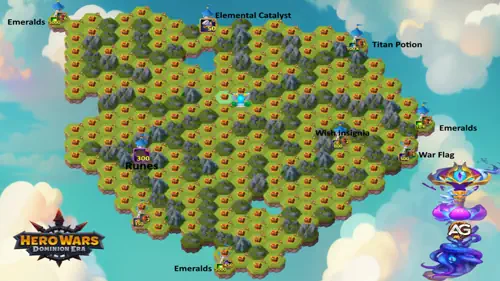
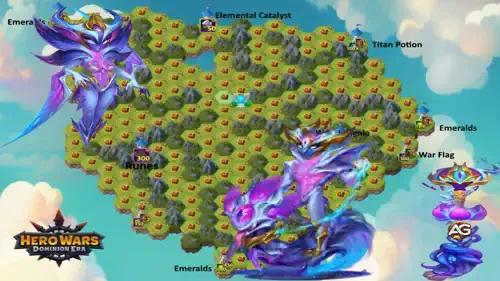
ilha

diff --git a/hero-wars-dominion-era/guide/mysterious-island-data3.js b/hero-wars-dominion-era/guide/mysterious-island-data3.js
@@ -1,0 +1,125 @@
+const mysteriousIslandData3 = {
+  en: {
+    title: "Mysterious Island Valdur and Echo, Map 3",
+    para1: "The Valdur and Echo Event map brings various rewards for players, including Valor Coin, Crown, Seal, and the Titan Valdur weapon artifact.",
+    para2: "This guide presents optimized routes to help F2P players efficiently collect these rewards, maximizing the use of available Explorer's Moves.",
+    figcaption: "Mysterious Island Valdur and Echo, Map 3, 2026, Hero Wars: Dominion Era.",
+    para3: "This Valdur and Echo Map 3 is ideal for players who want to collect resources for the Valdur and Echo Event in Hero Wars Dominion Era.",
+    rewardsTitle: "Valdur and Echo - Mysterious Island Main Rewards - Alexandre Games Route",
+    tableCaption: "Table: Valdur and Echo - Mysterious Island Main Rewards - Alexandre Games Route",
+    rewards: [
+      { item: "50K Valor Coin", cost: "+11", image: "../../hero-wars-dominion-era/images/events/shared/valor-coin.webp" },
+      { item: "2000 Zorva's Reins", cost: "+15", image: "../../hero-wars-dominion-era/images/titan-artifacts/weapon-valdur-zorvals-reins.webp" },
+      { item: "2000 Calling Seal", cost: "+11", image: "../../hero-wars-dominion-era/images/titan-artifacts/calling-seal.webp" },
+      { item: "2000 Crown of Distortion", cost: "+11", image: "../../hero-wars-dominion-era/images/titan-artifacts/distorcion-crown.webp" },
+   { item: "1600 Valdur's Soul Stones", cost: "+13", image: "../../hero-wars-dominion-era/images/events/shared/titan-soul-stones.webp" },
+ 
+   
+{ item: "Total Season Chest", cost: "56", image: "../../hero-wars-dominion-era/images/events/shared/season-chest.webp" },
+{ item: "Total Chest of Patterns", cost: "12", image: "../../hero-wars-dominion-era/images/events/shared/chest-of-patterns.webp" },
+  { item: "", cost: "" },
+{ item: "Total Explorer's Move", cost: "61", image: "../../hero-wars-dominion-era/images/events/shared/explorers-move.webp" },
+
+    ]
+  },
+  pt: {
+    title: "Ilha Misteriosa Valdur e Echo, Mapa 3",
+    para1: "O mapa do evento Valdur e Echo traz várias recompensas para os jogadores, incluindo Moeda de Valor, Coroa, Selo e o artefato de arma do Titã Valdur.",
+    para2: "Este guia apresenta rotas otimizadas para ajudar jogadores F2P a coletar essas recompensas de forma eficiente, maximizando o uso dos Movimentos do Explorador disponíveis.",
+    figcaption: "Ilha Misteriosa Valdur e Echo, Mapa 3, 2026, Hero Wars: Dominion Era.",
+    para3: "Este Mapa 3 de Valdur e Echo é ideal para jogadores que querem coletar recursos para o evento Valdur e Echo em Hero Wars Dominion Era.",
+    rewardsTitle: "Valdur e Echo - Recompensas Principais da Ilha Misteriosa - Rota Alexandre Games",
+    tableCaption: "Tabela: Valdur e Echo - Recompensas Principais da Ilha Misteriosa - Rota Alexandre Games",
+    rewards: [
+      { item: "50K Moeda de Valor", cost: "+11", image: "../../hero-wars-dominion-era/images/events/shared/valor-coin.webp" },
+      { item: "2000 Rédeas de Zorval", cost: "+15", image: "../../hero-wars-dominion-era/images/titan-artifacts/weapon-valdur-zorvals-reins.webp" },
+      { item: "2000 Selo da Invocação", cost: "+11", image: "../../hero-wars-dominion-era/images/titan-artifacts/calling-seal.webp" },
+      { item: "2000 Coroa da Distorção", cost: "+11", image: "../../hero-wars-dominion-era/images/titan-artifacts/distorcion-crown.webp" },
+      { item: "1600 Pedras da Alma de Valdur", cost: "+13", image: "../../hero-wars-dominion-era/images/events/shared/titan-soul-stones.webp" },
+      { item: "Total Baú de Temporada", cost: "56", image: "../../hero-wars-dominion-era/images/events/shared/season-chest.webp" },
+      { item: "Total Baú de Padrões", cost: "12", image: "../../hero-wars-dominion-era/images/events/shared/chest-of-patterns.webp" },
+      { item: "", cost: "" },
+      { item: "Total Movimentos do Explorador", cost: "61", image: "../../hero-wars-dominion-era/images/events/shared/explorers-move.webp" }
+    ]
+  },
+  de: {
+    title: "Mysterious Island Valdur und Echo, Karte 3",
+    para1: "Die Eventkarte von Valdur und Echo bietet Spielern verschiedene Belohnungen, darunter Valor-Münzen, eine Krone, ein Siegel und Valdurs Titanen-Waffenartefakt.",
+    para2: "Dieser Leitfaden stellt optimierte Routen vor, um F2P-Spielern zu helfen, diese Belohnungen effizient zu sammeln und die verfügbaren Entdeckerzüge zu maximieren.",
+    figcaption: "Mysterious Island Valdur und Echo, Karte 3, 2026, Hero Wars: Dominion Era.",
+    para3: "Diese Karte 3 von Valdur und Echo ist ideal für Spieler, die Ressourcen für das Valdur-und-Echo-Event in Hero Wars Dominion Era sammeln möchten.",
+    rewardsTitle: "Valdur und Echo - Hauptbelohnungen der Mysterious Island - Alexandre Games Route",
+    tableCaption: "Tabelle: Valdur und Echo - Hauptbelohnungen der Mysterious Island - Alexandre Games Route",
+    rewards: [
+      { item: "50K Valor-Münzen", cost: "+11", image: "../../hero-wars-dominion-era/images/events/shared/valor-coin.webp" },
+      { item: "2000 Zorvals Zügel", cost: "+15", image: "../../hero-wars-dominion-era/images/titan-artifacts/weapon-valdur-zorvals-reins.webp" },
+      { item: "2000 Siegel der Berufung", cost: "+11", image: "../../hero-wars-dominion-era/images/titan-artifacts/calling-seal.webp" },
+      { item: "2000 Kronen der Verzerrung", cost: "+11", image: "../../hero-wars-dominion-era/images/titan-artifacts/distorcion-crown.webp" },
+      { item: "1600 Valdur-Seelensteine", cost: "+13", image: "../../hero-wars-dominion-era/images/events/shared/titan-soul-stones.webp" },
+      { item: "Saisontruhen gesamt", cost: "56", image: "../../hero-wars-dominion-era/images/events/shared/season-chest.webp" },
+      { item: "Mustertruhen gesamt", cost: "12", image: "../../hero-wars-dominion-era/images/events/shared/chest-of-patterns.webp" },
+      { item: "", cost: "" },
+      { item: "Entdeckerzüge gesamt", cost: "61", image: "../../hero-wars-dominion-era/images/events/shared/explorers-move.webp" }
+   ]
+  },
+  es: {
+    title: "Isla Misteriosa Valdur y Echo, Mapa 3",
+    para1: "El mapa del evento Valdur y Echo ofrece varias recompensas a los jugadores, incluyendo Moneda de Valor, Corona, Sello y el artefacto de arma del Titán Valdur.",
+    para2: "Esta guía presenta rutas optimizadas para ayudar a los jugadores F2P a recolectar estas recompensas de manera eficiente, maximizando el uso de los Movimientos del Explorador disponibles.",
+    figcaption: "Isla Misteriosa Valdur y Echo, Mapa 3, 2026, Hero Wars: Dominion Era.",
+    para3: "Este Mapa 3 de Valdur y Echo es ideal para los jugadores que desean recolectar recursos para el evento Valdur y Echo en Hero Wars Dominion Era.",
+    rewardsTitle: "Valdur y Echo - Recompensas Principales de la Isla Misteriosa - Ruta Alexandre Games",
+    tableCaption: "Tabla: Valdur y Echo - Recompensas Principales de la Isla Misteriosa - Ruta Alexandre Games",
+    rewards: [
+      { item: "50K Moneda de Valor", cost: "+11", image: "../../hero-wars-dominion-era/images/events/shared/valor-coin.webp" },
+      { item: "2000 Riendas de Zorval", cost: "+15", image: "../../hero-wars-dominion-era/images/titan-artifacts/weapon-valdur-zorvals-reins.webp" },
+      { item: "2000 Sello de la Llamada", cost: "+11", image: "../../hero-wars-dominion-era/images/titan-artifacts/calling-seal.webp" },
+      { item: "2000 Corona de Distorsión", cost: "+11", image: "../../hero-wars-dominion-era/images/titan-artifacts/distorcion-crown.webp" },
+      { item: "1600 Piedras de Alma de Valdur", cost: "+13", image: "../../hero-wars-dominion-era/images/events/shared/titan-soul-stones.webp" },
+      { item: "Total Cofre de Temporada", cost: "56", image: "../../hero-wars-dominion-era/images/events/shared/season-chest.webp" },
+      { item: "Total Cofre de Patrones", cost: "12", image: "../../hero-wars-dominion-era/images/events/shared/chest-of-patterns.webp" },
+      { item: "", cost: "" },
+      { item: "Total Movimientos del Explorador", cost: "61", image: "../../hero-wars-dominion-era/images/events/shared/explorers-move.webp" }
+    ]
+  },
+  fr: {
+    title: "Île Mystérieuse Valdur et Echo, Carte 3",
+    para1: "La carte de l'événement Valdur et Echo offre diverses récompenses aux joueurs, notamment des Pièces de Valeur, une Couronne, un Sceau et l'artefact d'arme du Titan Valdur.",
+    para2: "Ce guide présente des itinéraires optimisés pour aider les joueurs F2P à collecter efficacement ces récompenses, en maximisant l'utilisation des Mouvements de l'Explorateur disponibles.",
+    figcaption: "Île Mystérieuse Valdur et Echo, Carte 3, 2026, Hero Wars: Dominion Era.",
+    para3: "Cette Carte 3 de Valdur et Echo est idéale pour les joueurs souhaitant collecter des ressources pour l'événement Valdur et Echo dans Hero Wars Dominion Era.",
+    rewardsTitle: "Valdur et Echo - Récompenses Principales de l'Île Mystérieuse - Route Alexandre Games",
+    tableCaption: "Tableau : Valdur et Echo - Récompenses Principales de l'Île Mystérieuse - Route Alexandre Games",
+    rewards: [
+      { item: "50K Pièces de Valeur", cost: "+11", image: "../../hero-wars-dominion-era/images/events/shared/valor-coin.webp" },
+      { item: "2000 Rênes de Zorval", cost: "+15", image: "../../hero-wars-dominion-era/images/titan-artifacts/weapon-valdur-zorvals-reins.webp" },
+      { item: "2000 Sceau de l'Appel", cost: "+11", image: "../../hero-wars-dominion-era/images/titan-artifacts/calling-seal.webp" },
+      { item: "2000 Couronne de Distorsion", cost: "+11", image: "../../hero-wars-dominion-era/images/titan-artifacts/distorcion-crown.webp" },
+      { item: "1600 Pierres d'Âme de Valdur", cost: "+13", image: "../../hero-wars-dominion-era/images/events/shared/titan-soul-stones.webp" },
+      { item: "Total Coffre de Saison", cost: "56", image: "../../hero-wars-dominion-era/images/events/shared/season-chest.webp" },
+      { item: "Total Coffre de Motifs", cost: "12", image: "../../hero-wars-dominion-era/images/events/shared/chest-of-patterns.webp" },
+      { item: "", cost: "" },
+      { item: "Total des Mouvements de l'Explorateur", cost: "61", image: "../../hero-wars-dominion-era/images/events/shared/explorers-move.webp" }
+    ]
+  },
+  ja: {
+    title: "謎の島：ヴァルドゥル＆エコー、マップ3",
+    para1: "ヴァルドゥル＆エコーイベントのマップでは、ヴァラーコイン、王冠、印章、タイタン・ヴァルドゥルの武器アーティファクトなど、プレイヤー向けのさまざまな報酬を獲得できます。",
+    para2: "このガイドでは、F2Pプレイヤーが利用可能な探検家の移動を最大限に活用し、これらの報酬を効率よく集めるための最適なルートを紹介します。",
+    figcaption: "謎の島：ヴァルドゥル＆エコー、マップ3、2026年、ヒーローウォーズ：ドミニオン・エラ。",
+    para3: "このヴァルドゥル＆エコーのマップ3は、ヒーローウォーズ：ドミニオン・エラのヴァルドゥル＆エコーイベント用リソースを集めたいプレイヤーに最適です。",
+    rewardsTitle: "ヴァルドゥル＆エコー - 謎の島の主な報酬 - アレクサンドレ・ゲームズのルート",
+    tableCaption: "表：ヴァルドゥル＆エコー - 謎の島の主な報酬 - アレクサンドレ・ゲームズのルート",
+    rewards: [
+      { item: "50K ヴァラーコイン", cost: "+11", image: "../../hero-wars-dominion-era/images/events/shared/valor-coin.webp" },
+      { item: "2000 ゾルヴァルの手綱", cost: "+15", image: "../../hero-wars-dominion-era/images/titan-artifacts/weapon-valdur-zorvals-reins.webp" },
+      { item: "2000 コーリング・シール", cost: "+11", image: "../../hero-wars-dominion-era/images/titan-artifacts/calling-seal.webp" },
+      { item: "2000 ディストーションの王冠", cost: "+11", image: "../../hero-wars-dominion-era/images/titan-artifacts/distorcion-crown.webp" },
+      { item: "1600 ヴァルドゥルのソウルストーン", cost: "+13", image: "../../hero-wars-dominion-era/images/events/shared/titan-soul-stones.webp" },
+      { item: "シーズンチェスト合計", cost: "56", image: "../../hero-wars-dominion-era/images/events/shared/season-chest.webp" },
+      { item: "パターンチェスト合計", cost: "12", image: "../../hero-wars-dominion-era/images/events/shared/chest-of-patterns.webp" },
+      { item: "", cost: "" },
+      { item: "探検家の移動合計", cost: "61", image: "../../hero-wars-dominion-era/images/events/shared/explorers-move.webp" }
+    ]
+  }
+};

diff --git a/hero-wars-dominion-era/guide/mysterious-island-data2.js b/hero-wars-dominion-era/guide/mysterious-island-data2.js
@@ -1,0 +1,130 @@
+const mysteriousIslandData2 = {
+  en: {
+    title: "Mysterious Island Alecto, Map 2",
+    para1: "The Alecto and Echo Event map brings various rewards for players, including Primal Catalyst, Crown, Seal, and the Titan Alecto weapon artifact.",
+    para2: "This guide presents optimized routes to help F2P players efficiently collect these rewards, maximizing the use of available Explorer's Moves.",
+    figcaption: "Mysterious Island Alecto and Echo, Map 2, 2026, Hero Wars: Dominion Era.",
+    para3: "This Alecto and Echo Map 2 is ideal for players who want to collect resources for the Alecto and Echo Event in Hero Wars Dominion Era.",
+    rewardsTitle: "Alecto and Echo - Mysterious Island Main Rewards - Alexandre Games Route",
+    tableCaption: "Table: Alecto and Echo - Mysterious Island Main Rewards - Alexandre Games Route",
+    rewards: [
+{ item: "2000 Zorva's Wing", cost: "+16", image: "../../hero-wars-dominion-era/images/titan-artifacts/weapon-alecto-zorvals-wing.webp" },
+{ item: "70 Primal Catalyst", cost: "+5", image: "../../hero-wars-dominion-era/images/events/shared/primal-catalyst.webp" },
+{ item: "2000 Distorted Attack Seal", cost: "+18", image: "../../hero-wars-dominion-era/images/titan-artifacts/seal-of-distorcion.webp" },
+{ item: "2000 Crown of Distortion", cost: "+11", image: "../../hero-wars-dominion-era/images/titan-artifacts/distorcion-crown.webp" },
+{ item: "1600 Alecto's Soul Stones", cost: "+10", image: "../../hero-wars-dominion-era/images/events/shared/titan-soul-stones.webp" },
+
+
+{ item: "Total Season Chest", cost: "55", image: "../../hero-wars-dominion-era/images/events/shared/season-chest.webp" },
+{ item: "Total Chest of Patterns", cost: "8", image: "../../hero-wars-dominion-era/images/events/shared/chest-of-patterns.webp" },
+{ item: "", cost: "" },
+{ item: "Total Explorer's Move", cost: "59", image: "../../hero-wars-dominion-era/images/events/shared/explorers-move.webp" },
+
+    ]
+  },
+  pt: {
+    title: "Ilha Misteriosa Tidus e Gelo, Mapa 2",
+    para1: "O mapa do evento Tidus e Gelo traz várias recompensas para os jogadores, incluindo Moeda de Valor, Selo da Natureza e o artefato de arma do Titã Tidus (Maça de Siungur).",
+    para2: "Este guia apresenta rotas otimizadas para ajudar jogadores F2P a coletar essas recompensas de forma eficiente, maximizando o uso dos Movimentos do Explorador disponíveis.",
+    figcaption: "Ilha Misteriosa Tidus e Gelo, Mapa 2, 2026, Hero Wars: Dominion Era.",
+    para3: "Este Mapa 2 de Tidus e Gelo é ideal para jogadores que querem coletar recursos para o evento Tidus e Gelo em Hero Wars Dominion Era.",
+    rewardsTitle: "Tidus e Gelo - Recompensas Principais da Ilha Misteriosa - Rota Alexandre Games",
+    tableCaption: "Tabela: Tidus e Gelo - Recompensas Principais da Ilha Misteriosa - Rota Alexandre Games",
+    rewards: [
+      { item: "100 Catalisador Elemental", cost: "+10", image: "../../hero-wars-dominion-era/images/events/shared/elemental-catalyst.webp" },
+      { item: "100 Catalisador Primal", cost: "+17", image: "../../hero-wars-dominion-era/images/events/shared/primal-catalyst.webp" },
+      { item: "80K Moeda de Valor", cost: "+13", image: "../../hero-wars-dominion-era/images/events/shared/valor-coin.webp" },
+      { item: "2500 Maça de Siungur", cost: "+7", image: "../../hero-wars-dominion-era/images/titan-artifacts/weapon-siungurs-mace.webp" },
+      { item: "2500 Selo da Natureza", cost: "+9", image: "../../hero-wars-dominion-era/images/titan-artifacts/seal-of-nature.webp" },
+     
+      { item: "Total Movimentos do Explorador", cost: "57", image: "../../hero-wars-dominion-era/images/events/shared/explorers-move.webp" },
+      { item: "", cost: "" },
+      { item: "Total Baú de Temporada com esta Rota", cost: "52" },
+      { item: "Total Baú de Padrões com esta Rota", cost: "10" }
+    ]
+  },
+  de: {
+    title: "Mysterious Island Tidus und Gelo, Karte 2",
+    para1: "Die Tidus- und Gelo-Eventkarte bringt verschiedene Belohnungen für Spieler, einschließlich Valor-Münzen, Siegel der Natur und dem Titan-Tidus-Waffenartefakt (Siungurs Keule).",
+    para2: "Dieser Leitfaden stellt optimierte Routen vor, um F2P-Spielern zu helfen, diese Belohnungen effizient zu sammeln und die verfügbaren Entdeckerzüge zu maximieren.",
+    figcaption: "Mysterious Island Tidus und Gelo, Karte 2, 2026, Hero Wars: Dominion Era.",
+    para3: "Diese Tidus und Gelo Karte 2 ist ideal für Spieler, die Ressourcen für das Tidus und Gelo Event in Hero Wars Dominion Era sammeln möchten.",
+    rewardsTitle: "Tidus und Gelo - Hauptbelohnungen der Mysterious Island - Alexandre Games Route",
+    tableCaption: "Tabelle: Tidus und Gelo - Hauptbelohnungen der Mysterious Island - Alexandre Games Route",
+    rewards: [
+      { item: "100 Elementarkatalysator", cost: "+10", image: "../../hero-wars-dominion-era/images/events/shared/elemental-catalyst.webp" },
+      { item: "100 Urkatalysator", cost: "+17", image: "../../hero-wars-dominion-era/images/events/shared/primal-catalyst.webp" },
+      { item: "80K Valor-Münze", cost: "+13", image: "../../hero-wars-dominion-era/images/events/shared/valor-coin.webp" },
+      { item: "2500 Siungurs Keule", cost: "+7", image: "../../hero-wars-dominion-era/images/titan-artifacts/weapon-siungurs-mace.webp" },
+      { item: "2500 Siegel der Natur", cost: "+9", image: "../../hero-wars-dominion-era/images/titan-artifacts/seal-of-nature.webp" },
+     
+      { item: "Gesamt Entdeckerzüge", cost: "57", image: "../../hero-wars-dominion-era/images/events/shared/explorers-move.webp" },
+      { item: "", cost: "" },
+      { item: "Gesamt Saisontruhe mit dieser Route", cost: "52" },
+      { item: "Gesamt Mustertruhe mit dieser Route", cost: "10" }
+   ]
+  },
+  es: {
+    title: "Isla Misteriosa Tidus y Gelo, Mapa 2",
+    para1: "El mapa del evento Tidus y Gelo trae varias recompensas para los jugadores, incluyendo Moneda de Valor, Sello de la Naturaleza y el artefacto de arma Titán Tidus (Maza de Siungur).",
+    para2: "Esta guía presenta rutas optimizadas para ayudar a los jugadores F2P a recolectar estas recompensas de manera eficiente, maximizando el uso de los Movimientos del Explorador disponibles.",
+    figcaption: "Isla Misteriosa Tidus y Gelo, Mapa 2, 2026, Hero Wars: Dominion Era.",
+    para3: "Este Mapa 2 de Tidus y Gelo es ideal para jugadores que desean recolectar recursos para el evento Tidus y Gelo en Hero Wars Dominion Era.",
+    rewardsTitle: "Tidus y Gelo - Recompensas Principales de la Isla Misteriosa - Ruta Alexandre Games",
+    tableCaption: "Tabla: Tidus y Gelo - Recompensas Principales de la Isla Misteriosa - Ruta Alexandre Games",
+    rewards: [
+      { item: "100 Catalizador Elemental", cost: "+10", image: "../../hero-wars-dominion-era/images/events/shared/elemental-catalyst.webp" },
+      { item: "100 Catalizador Primal", cost: "+17", image: "../../hero-wars-dominion-era/images/events/shared/primal-catalyst.webp" },
+      { item: "80K Moneda de Valor", cost: "+13", image: "../../hero-wars-dominion-era/images/events/shared/valor-coin.webp" },
+      { item: "2500 Maza de Siungur", cost: "+7", image: "../../hero-wars-dominion-era/images/titan-artifacts/weapon-siungurs-mace.webp" },
+      { item: "2500 Sello de la Naturaleza", cost: "+9", image: "../../hero-wars-dominion-era/images/titan-artifacts/seal-of-nature.webp" },
+      
+      { item: "Total Movimientos del Explorador", cost: "57", image: "../../hero-wars-dominion-era/images/events/shared/explorers-move.webp" },
+      { item: "", cost: "" },
+      { item: "Total Cofre de Temporada con esta Ruta", cost: "52" },
+      { item: "Total Cofre de Patrones con esta Ruta", cost: "10" }
+    ]
+  },
+  fr: {
+    title: "Île Mystérieuse Tidus et Gelo, Carte 2",
+    para1: "La carte de l'événement Tidus et Gelo apporte diverses récompenses aux joueurs, y compris la Pièce de Valeur, le Sceau de la Nature et l'artefact d'arme Titan Tidus (Masse de Siungur).",
+    para2: "Ce guide présente des itinéraires optimisés pour aider les joueurs F2P à collecter efficacement ces récompenses, en maximisant l'utilisation des Mouvements de l'Explorateur disponibles.",
+    figcaption: "Île Mystérieuse Tidus et Gelo, Carte 2, 2026, Hero Wars: Dominion Era.",
+    para3: "Cette Carte 2 Tidus et Gelo est idéale pour les joueurs souhaitant collecter des ressources pour l'événement Tidus et Gelo dans Hero Wars Dominion Era.",
+    rewardsTitle: "Tidus et Gelo - Récompenses Principales de l'Île Mystérieuse - Route Alexandre Games",
+    tableCaption: "Tableau: Tidus et Gelo - Récompenses Principales de l'Île Mystérieuse - Route Alexandre Games",
+    rewards: [
+      { item: "100 Catalyseur Élémentaire", cost: "+10", image: "../../hero-wars-dominion-era/images/events/shared/elemental-catalyst.webp" },
+      { item: "100 Catalyseur Primal", cost: "+17", image: "../../hero-wars-dominion-era/images/events/shared/primal-catalyst.webp" },
+      { item: "80K Pièce de Valeur", cost: "+13", image: "../../hero-wars-dominion-era/images/events/shared/valor-coin.webp" },
+      { item: "2500 Masse de Siungur", cost: "+7", image: "../../hero-wars-dominion-era/images/titan-artifacts/weapon-siungurs-mace.webp" },
+      { item: "2500 Sceau de la Nature", cost: "+9", image: "../../hero-wars-dominion-era/images/titan-artifacts/seal-of-nature.webp" },
+      
+      { item: "Total des mouvements d'explorateur", cost: "57", image: "../../hero-wars-dominion-era/images/events/shared/explorers-move.webp" },
+      { item: "", cost: "" },
+      { item: "Total Coffre de Saison avec cette Route", cost: "52" },
+      { item: "Total Coffre de Motifs avec cette Route", cost: "10" }
+    ]
+  },
+  ja: {
+    title: "謎の島 Tidus と Gelo、マップ2",
+    para1: "Tidus と Gelo のイベントマップは、Valorコイン、自然の印章、そしてタイタン Tidus の武器アーティファクト（Siungur のメイス）など、プレイヤーにさまざまな報酬をもたらします。",
+    para2: "このガイドは、F2P プレイヤーが利用可能な探検家の移動を最大限に活用してこれらの報酬を効率的に収集できるように、最適化されたルートを提示します。",
+    figcaption: "謎の島 Tidus と Gelo、マップ2、2026、Hero Wars: Dominion Era。",
+    para3: "このTidus と Gelo のマップ2は、Hero Wars Dominion Era の Tidus と Gelo イベントのための資源を集めたいプレイヤーに最適です。",
+    rewardsTitle: "Tidus と Gelo - 謎の島の主な報酬 - Alexandre Games ルート",
+    tableCaption: "表: Tidus と Gelo - 謎の島の主な報酬 - Alexandre Games ルート",
+    rewards: [
+      { item: "100 エレメンタル触媒", cost: "+10", image: "../../hero-wars-dominion-era/images/events/shared/elemental-catalyst.webp" },
+      { item: "100 プライマル触媒", cost: "+17", image: "../../hero-wars-dominion-era/images/events/shared/primal-catalyst.webp" },
+      { item: "80K Valorコイン", cost: "+13", image: "../../hero-wars-dominion-era/images/events/shared/valor-coin.webp" },
+      { item: "2500 シウングルのメイス", cost: "+7", image: "../../hero-wars-dominion-era/images/titan-artifacts/weapon-siungurs-mace.webp" },
+      { item: "2500 自然の印章", cost: "+9", image: "../../hero-wars-dominion-era/images/titan-artifacts/seal-of-nature.webp" },
+     
+      { item: "探検家の移動合計", cost: "57", image: "../../hero-wars-dominion-era/images/events/shared/explorers-move.webp" },
+      { item: "", cost: "" },
+      { item: "このルートでの季節の宝箱の合計", cost: "52" },
+      { item: "このルートでのパターンの宝箱の合計", cost: "10" }
+    ]
+  }
+};

diff --git a/hero-wars-dominion-era/guide/mysterious-island-data3-inject.js b/hero-wars-dominion-era/guide/mysterious-island-data3-inject.js
@@ -20,10 +20,10 @@ function injectMysteriousIslandContent3() {
 <p>${data.para2}</p>
 <figure>
   <picture>
-    <source media="(min-width: 768px)" srcset="../../hero-wars-dominion-era/images/guides/mysterious-island/somna-map-1200px.webp">
-    <img src="../../hero-wars-dominion-era/images/guides/mysterious-island/somna-map-800px.webp"
-         alt="Somna Map Hero Wars - Wallpaper"
-         title="Somna Map Hero Wars - Hero Wars Dominion Era"
+    <source media="(min-width: 768px)" srcset="../../hero-wars-dominion-era/images/guides/mysterious-island/valdur-map-1200px.webp">
+    <img src="../../hero-wars-dominion-era/images/guides/mysterious-island/valdur-map-800px.webp"
+         alt="Valdur Map Hero Wars - Wallpaper"
+         title="Valdur Map Hero Wars - Hero Wars Dominion Era"
          loading="lazy"
          width="100%">
   </picture>

diff --git a/hero-wars-dominion-era/guide/mysterious-island-data2-inject.js b/hero-wars-dominion-era/guide/mysterious-island-data2-inject.js
@@ -19,10 +19,10 @@ function injectMysteriousIslandContent2() {
 <p>${data.para2}</p>
 <figure>
   <picture>
-    <source media="(min-width: 768px)" srcset="../../hero-wars-dominion-era/images/guides/mysterious-island/map2-1200px.webp">
-    <img src="../../hero-wars-dominion-era/images/guides/mysterious-island/map2-800px.webp"
-         alt="Map 1-2 - Wallpaper"
-         title="Map 1-2 - Hero Wars Dominion Era"
+    <source media="(min-width: 768px)" srcset="../../hero-wars-dominion-era/images/guides/mysterious-island/alecto-map2-1200px.webp">
+    <img src="../../hero-wars-dominion-era/images/guides/mysterious-island/alecto-map2-800px.webp"
+         alt="Map 2 - Wallpaper"
+         title="Map 2 - Hero Wars Dominion Era"
          loading="lazy"
          width="100%">
   </picture>

diff --git a/hero-wars-dominion-era/guide/mysterious-island-ja.html b/hero-wars-dominion-era/guide/mysterious-island-ja.html
@@ -7,7 +7,7 @@
     <meta name="viewport" content="width=device-width, initial-scale=1.0">
     <meta http-equiv="X-UA-Compatible" content="IE=edge">
     <meta property="article:published_time" content="2025-07-21T23:23-03:00" />
-    <meta property="article:modified_time" content="2026-07-31T23:49:47-03:00" />
+    <meta property="article:modified_time" content="2026-08-16T18:24:40-03:00" />
     <link rel="stylesheet" href="../../css/estilo13z.css">   
 
     <title>最新ミステリアスアイランドガイド：ヒーローウォーズ ドミニオン エラ</title>

diff --git a/hero-wars-dominion-era/guide/mysterious-island-de.html b/hero-wars-dominion-era/guide/mysterious-island-de.html
@@ -7,7 +7,7 @@
     <meta name="viewport" content="width=device-width, initial-scale=1.0">
     <meta http-equiv="X-UA-Compatible" content="IE=edge">
     <meta property="article:published_time" content="2025-07-21T23:23-03:00" />
-    <meta property="article:modified_time" content="2026-07-31T23:49:47-03:00" />
+    <meta property="article:modified_time" content="2026-08-16T18:24:40-03:00" />
     <link rel="stylesheet" href="../../css/estilo13z.css">   
 
     <title>Aktualisierter Leitfaden zur Geheimnisvollen Insel: Hero Wars Dominion Era</title>

diff --git a/hero-wars-dominion-era/guide/mysterious-island-fr.html b/hero-wars-dominion-era/guide/mysterious-island-fr.html
@@ -7,7 +7,7 @@
     <meta name="viewport" content="width=device-width, initial-scale=1.0">
     <meta http-equiv="X-UA-Compatible" content="IE=edge">
     <meta property="article:published_time" content="2025-07-21T23:23-03:00" />
-    <meta property="article:modified_time" content="2026-07-31T23:49:47-03:00" />
+    <meta property="article:modified_time" content="2026-08-16T18:24:40-03:00" />
     <link rel="stylesheet" href="../../css/estilo13z.css">   
 
     <title>Guide Mis à Jour de l'Île Mystérieuse : Hero Wars Dominion Era</title>

diff --git a/hero-wars-dominion-era/guide/mysterious-island-es.html b/hero-wars-dominion-era/guide/mysterious-island-es.html
@@ -7,7 +7,7 @@
     <meta name="viewport" content="width=device-width, initial-scale=1.0">
     <meta http-equiv="X-UA-Compatible" content="IE=edge">
     <meta property="article:published_time" content="2025-07-21T23:23-03:00" />
-    <meta property="article:modified_time" content="2026-07-31T23:49:47-03:00" />
+    <meta property="article:modified_time" content="2026-08-16T18:24:40-03:00" />
     <link rel="stylesheet" href="../../css/estilo13z.css">   
 
     <title>Guía Actualizada de la Isla Misteriosa: Hero Wars Dominion Era</title>

diff --git a/hero-wars-dominion-era/guide/mysterious-island-en.html b/hero-wars-dominion-era/guide/mysterious-island-en.html
@@ -5,7 +5,7 @@
     <meta name="viewport" content="width=device-width, initial-scale=1.0">
     <meta http-equiv="X-UA-Compatible" content="IE=edge">
      <meta property="article:published_time" content="2025-07-21T23:23-03:00" />
-<meta property="article:modified_time" content="2026-07-31T23:49:47-03:00" />
+<meta property="article:modified_time" content="2026-08-16T18:24:40-03:00" />
 <link rel="stylesheet" href="../../css/estilo13z.css">   
 
 <title>Updated Mysterious Island Guide: Hero Wars Dominion Era</title>

diff --git a/hero-wars-dominion-era/guide/mysterious-island-pt.html b/hero-wars-dominion-era/guide/mysterious-island-pt.html
@@ -7,7 +7,7 @@
 <meta http-equiv="X-UA-Compatible" content="IE=edge">
 
 <meta property="article:published_time" content="2025-07-21T23:23-03:00" />
-<meta property="article:modified_time" content="2026-07-31T23:49:47-03:00" />
+<meta property="article:modified_time" content="2026-08-16T18:24:40-03:00" />
 <link rel="stylesheet" href="../../css/estilo13z.css">
 
 <title>Guia Atualizado da Ilha Misteriosa: Hero Wars Dominion Era</title>
